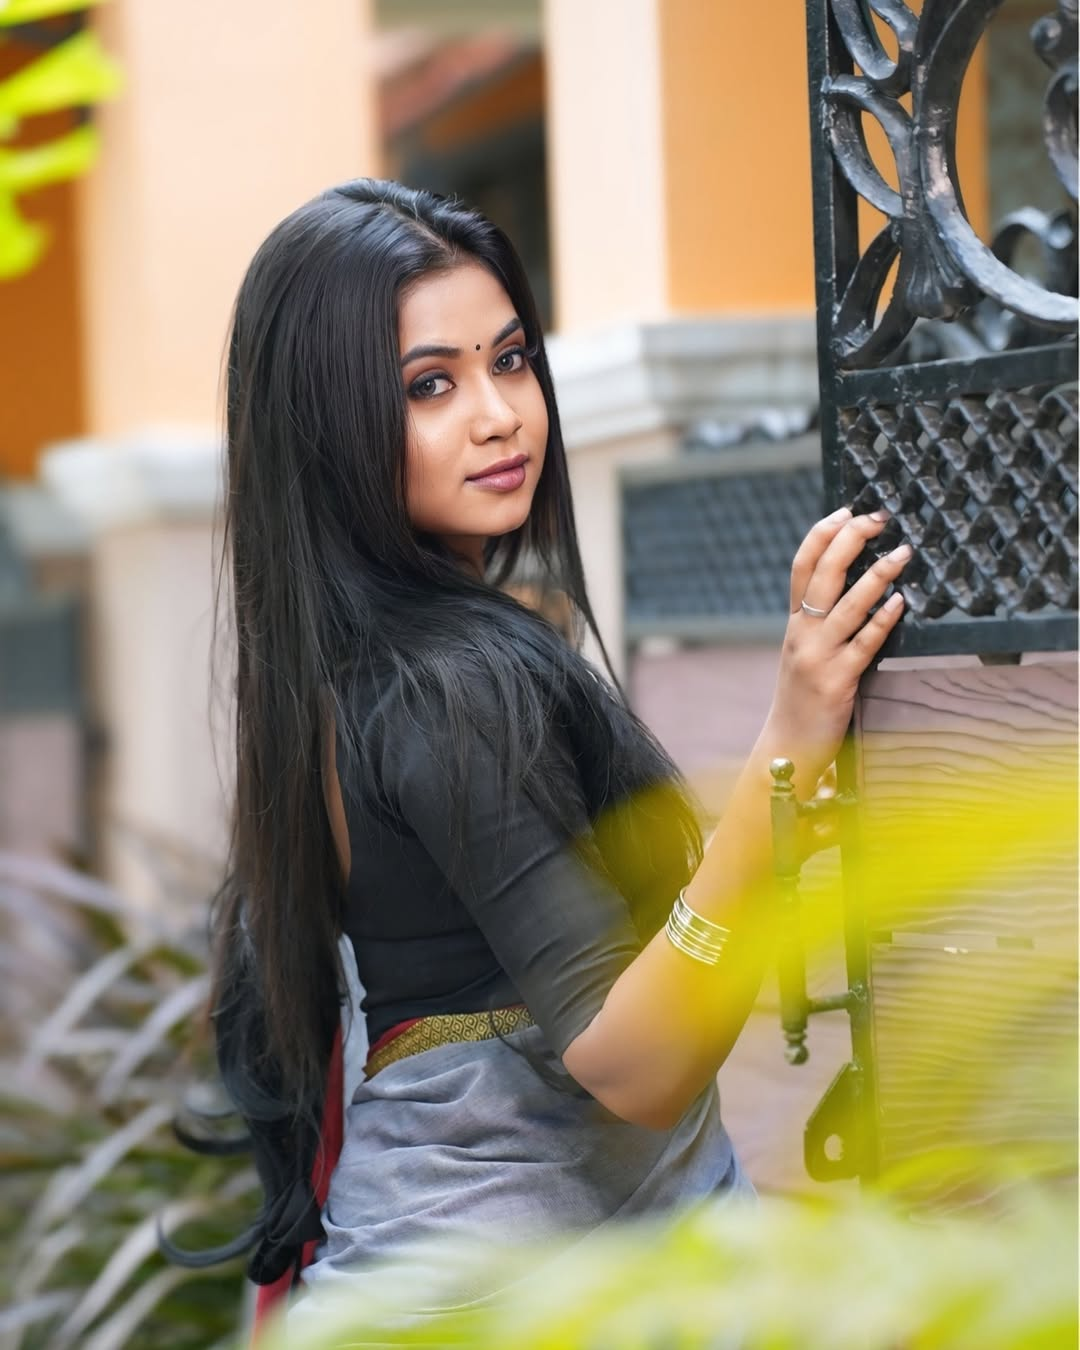
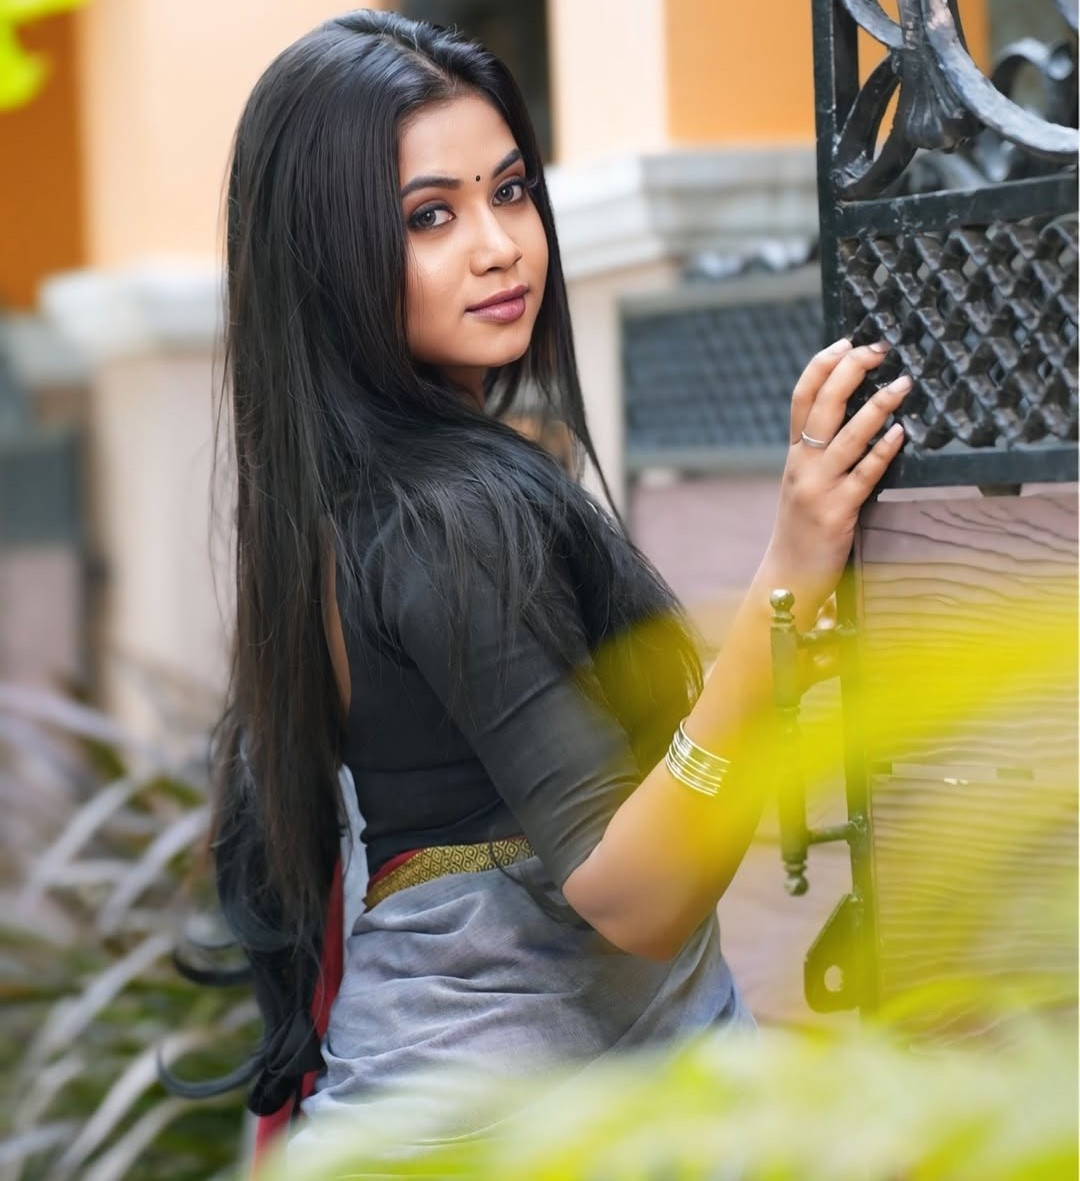
update

diff --git a/src/data/gallery.ts b/src/data/gallery.ts
@@ -1,22 +1,43 @@
-export type ServiceSlug = 
-  | 'birthday' 
-  | 'hindu_wedding' 
-  | 'christian_wedding'
-  | 'bhramin_wedding'
-  | 'engagement'
-  | 'housewarming'
-  | 'puberty'
-  | 'sastiyathapoorthi'
-  | 'upanayanam'
-  | 'maternity';
+export type ServiceSlug =
+  | "birthday"
+  | "hindu_wedding"
+  | "christian_wedding"
+  | "bhramin_wedding"
+  | "engagement"
+  | "housewarming"
+  | "puberty"
+  | "sastiyathapoorthi"
+  | "upanayanam"
+  | "maternity";
 
-export type GalleryCategory = 'outdoor' | 'candid' | 'events' | 'others';
+export type GalleryCategory = "outdoor" | "candid" | "events" | "others";
 
-export const CATEGORY_META: Record<GalleryCategory, { title: string; description: string; image: string }> = {
-  outdoor: { title: 'Outdoor', description: 'Explore our beautiful outdoor photography collections.', image: '/o1.png' },
-  candid: { title: 'Candid', description: 'Capturing authentic, unposed moments that tell your true story.', image: '/c1.jpg' },
-  events: { title: 'Events', description: 'Professional coverage for all your special events and celebrations.', image: '/e1.png' },
-  others: { title: 'Others', description: 'A diverse collection of our miscellaneous photography work.', image: '/hero.png' },
+export const CATEGORY_META: Record<
+  GalleryCategory,
+  { title: string; description: string; image: string }
+> = {
+  outdoor: {
+    title: "Outdoor",
+    description: "Explore our beautiful outdoor photography collections.",
+    image: "/o1.png",
+  },
+  candid: {
+    title: "Candid",
+    description:
+      "Capturing authentic, unposed moments that tell your true story.",
+    image: "/c1.jpg",
+  },
+  events: {
+    title: "Events",
+    description:
+      "Professional coverage for all your special events and celebrations.",
+    image: "/e1.png",
+  },
+  others: {
+    title: "Others",
+    description: "A diverse collection of our miscellaneous photography work.",
+    image: "/hero.png",
+  },
 };
 
 export const SERVICE_META: Record<
@@ -24,63 +45,62 @@ export const SERVICE_META: Record<
   { title: string; description: string; image: string }
 > = {
   birthday: {
-    title: 'Birthday Party',
+    title: "Birthday Party",
     description:
-      'We provide a professional photography service and have many years of experience capturing joyous celebrations.',
-    image: '/b1.png',
+      "We provide a professional photography service and have many years of experience capturing joyous celebrations.",
+    image: "/b1.png",
   },
   hindu_wedding: {
-    title: 'Hindu Wedding',
+    title: "Hindu Wedding",
     description:
-      'We believe wedding photography should be unscripted, fun, and timeless.',
-    image: '/w1.png',
+      "We believe wedding photography should be unscripted, fun, and timeless.",
+    image: "/w1.png",
   },
   christian_wedding: {
-    title: 'Christian Wedding',
+    title: "Christian Wedding",
     description:
-      'Beautifully capturing the sacred vows and cherished moments of your special day.',
-    image: '/chr1.png',
+      "Beautifully capturing the sacred vows and cherished moments of your special day.",
+    image: "/chr1.png",
   },
   bhramin_wedding: {
-    title: 'Bhramin Wedding',
+    title: "Bhramin Wedding",
     description:
-      'Documenting the rich traditions and rituals with elegance and authenticity.',
-    image: '/bhr1.png',
+      "Documenting the rich traditions and rituals with elegance and authenticity.",
+    image: "/bhr1.png",
   },
   engagement: {
-    title: 'Engagement Ceremony',
+    title: "Engagement Ceremony",
     description:
-      'Celebrate the beginning of your forever with stunning and intimate portraits.',
-    image: '/eng1.png',
+      "Celebrate the beginning of your forever with stunning and intimate portraits.",
+    image: "/eng1.png",
   },
   housewarming: {
-    title: 'Housewarming Ceremony',
-    description:
-      'Capturing the warmth and joy of stepping into your new home.',
-    image: '/hou1.png',
+    title: "Housewarming Ceremony",
+    description: "Capturing the warmth and joy of stepping into your new home.",
+    image: "/hou1.png",
   },
   puberty: {
-    title: 'Puberty Ceremony',
+    title: "Puberty Ceremony",
     description:
-      'Honoring milestone traditions with vibrant and heartfelt photography.',
-    image: '/pub1.png',
+      "Honoring milestone traditions with vibrant and heartfelt photography.",
+    image: "/pub1.png",
   },
   sastiyathapoorthi: {
-    title: 'Sastiyathapoorthi',
+    title: "Sastiyathapoorthi",
     description:
-      'Commemorating 60 years of grace with beautiful memories of your grand celebration.',
-    image: '/sat1.png',
+      "Commemorating 60 years of grace with beautiful memories of your grand celebration.",
+    image: "/sat1.png",
   },
   upanayanam: {
-    title: 'Upanayanam',
+    title: "Upanayanam",
     description:
-      'Preserving the sacred thread ceremony with utmost respect and clarity.',
-    image: '/upn1.png',
+      "Preserving the sacred thread ceremony with utmost respect and clarity.",
+    image: "/upn1.png",
   },
   maternity: {
-    title: 'Maternity Photography',
+    title: "Maternity Photography",
     description:
-      'Celebrate the beauty of motherhood with elegant, heartfelt portraits in a relaxed and comfortable session.',
-    image: '/m1.png',
+      "Celebrate the beauty of motherhood with elegant, heartfelt portraits in a relaxed and comfortable session.",
+    image: "/m1.jpg",
   },
 };

diff --git a/src/components/GallerySection.tsx b/src/components/GallerySection.tsx
@@ -35,12 +35,12 @@ export function GallerySection() {
             <Link
               key={cat.key}
               to={`/collections/${cat.key}`}
-              className="group relative h-48 overflow-hidden text-left transition-shadow sm:h-56 md:h-64 ring-1 ring-transparent hover:ring-2 hover:ring-orange-500 hover:shadow-lg block"
+              className="group relative h-56 overflow-hidden text-left transition-shadow sm:h-60 md:h-72 ring-1 ring-transparent hover:ring-2 hover:ring-orange-500 hover:shadow-lg block"
             >
               <img
                 src={cat.image}
                 alt={cat.label}
-                className="h-full w-full object-cover transition duration-500 group-hover:scale-105"
+                className="h-full w-full object-cover object-top transition duration-500 group-hover:scale-105"
               />
 
               <div className="absolute bottom-3 left-3 flex items-stretch sm:bottom-4 sm:left-4">

diff --git a/src/components/StoryCTASection.tsx b/src/components/StoryCTASection.tsx
@@ -24,9 +24,15 @@ export function StoryCTASection() {
           style={{ y: backgroundY }}
         >
           <img
+            src="/nn1.jpg"
+            alt=""
+            className="h-full w-full object-cover object-[center_30%] sm:hidden"
+            draggable={false}
+          />
+          <img
             src="/n1.jpg"
             alt=""
-            className="h-full w-full object-cover object-[center_30%] sm:object-center"
+            className="hidden h-full w-full object-cover sm:block sm:object-center"
             draggable={false}
           />
         </motion.div>
